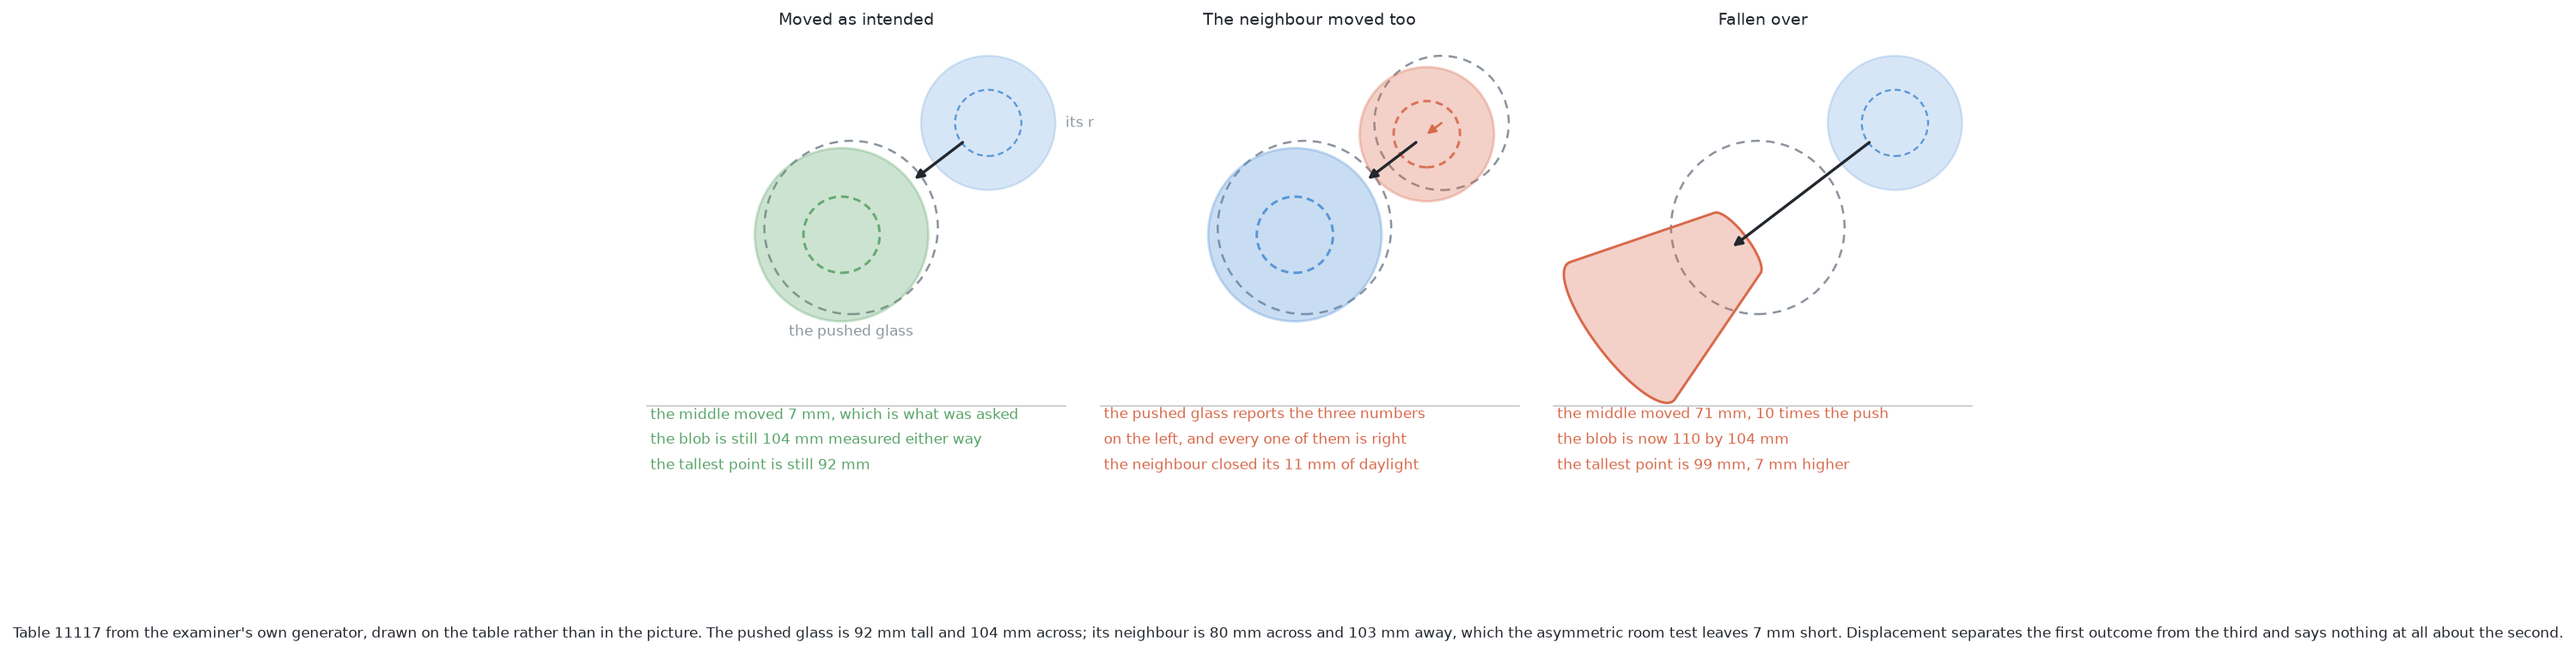
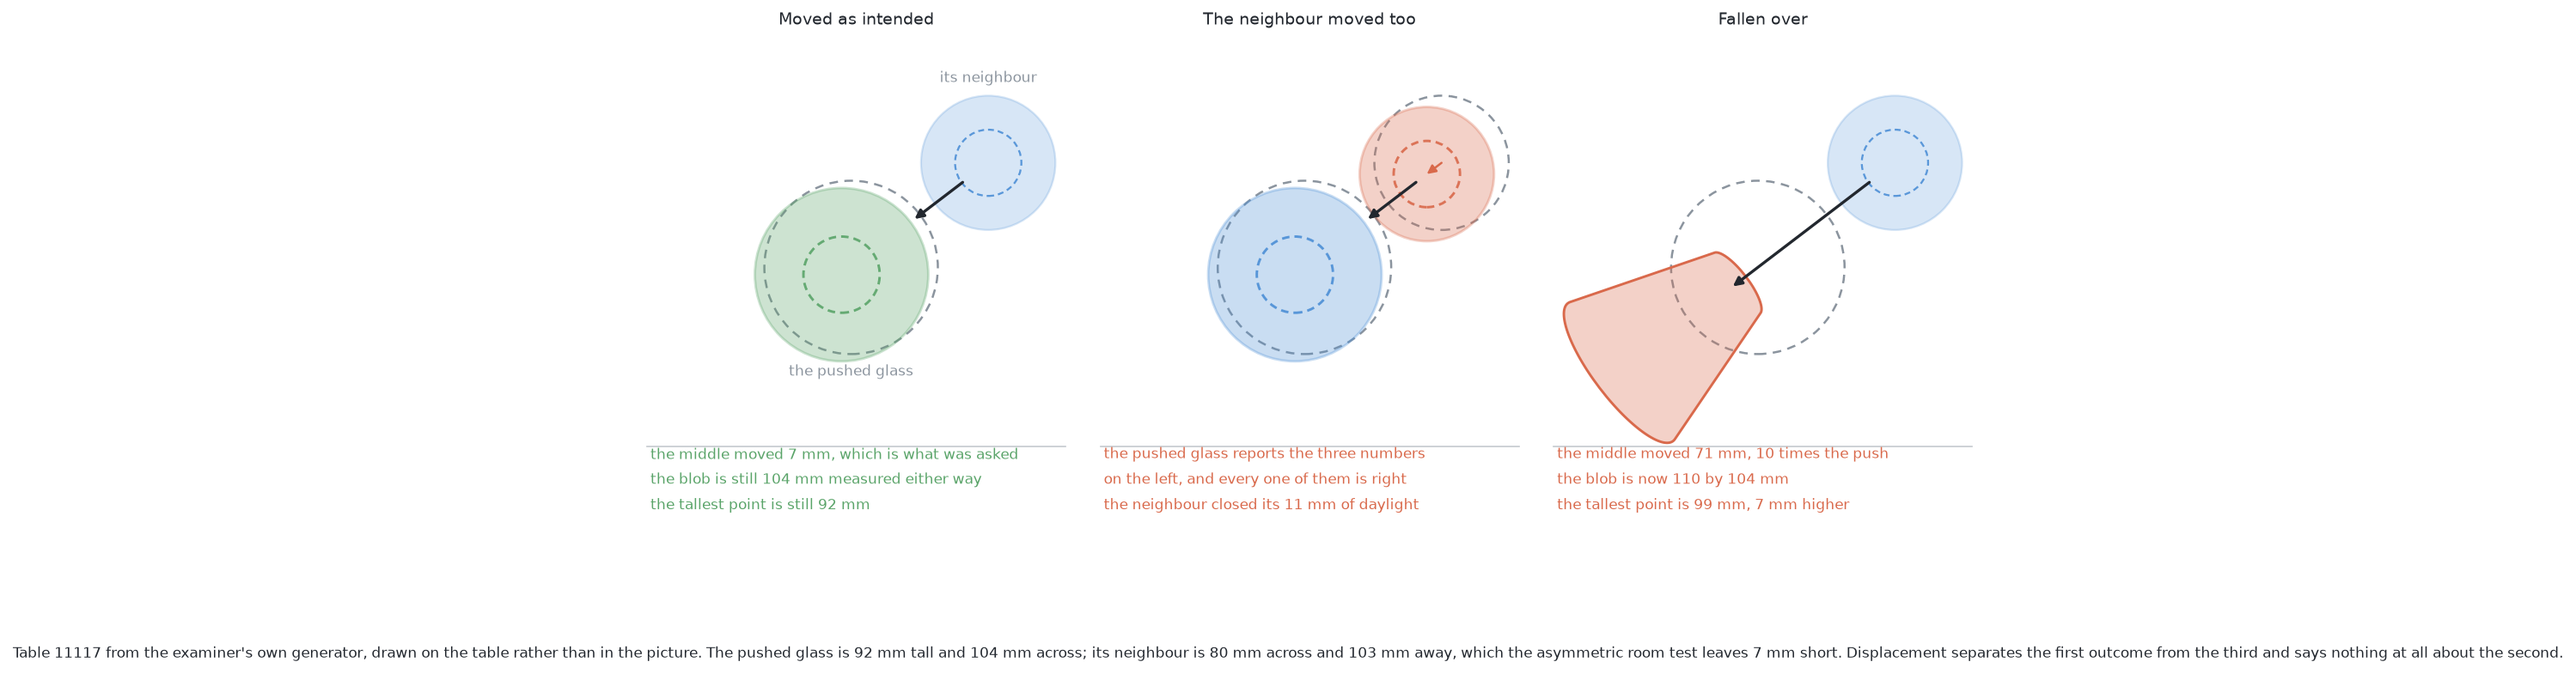
Stop the overhead-view picture cutting its own label in half
The label naming the neighbour was written to the right of it, past the
panel's right edge, so the panel showed "its r" and nothing more. It now
sits above the neighbour, and the panel reserves the room for it.

diff --git a/docs/diagrams/pushing-the-glasses-apart/make_07_images.py b/docs/diagrams/pushing-the-glasses-apart/make_07_images.py
@@ -397,7 +397,9 @@ def picture_what_the_overhead_view_reports() -> None:
         [here - (target["widest"] / 2.0 + 34.0) * away],
     ])
     left, right = drawn[:, 0].min() - 10.0, drawn[:, 0].max() + 10.0
-    high = drawn[:, 1].max() + 10.0
+    # Room above the drawing for the label that names the neighbour. Without it
+    # the label was written past the right edge and the panel cut it in half.
+    high = drawn[:, 1].max() + 34.0
     # A band under the drawing for the three lines of readout, in the same units.
     band = (right - left) * 0.19
     low = drawn[:, 1].min() - band
@@ -431,8 +433,8 @@ def picture_what_the_overhead_view_reports() -> None:
                tuple(here + (push - target["widest"] / 2.0 - 3.0) * away))
     note(intended, *(here - (target["widest"] / 2.0 + 6.0) * np.array([0.0, 1.0])),
          "the pushed glass", MUTED, va="top")
-    intended.text(there[0] + neighbour["widest"] / 2.0 + 6.0, there[1], "its neighbour",
-                  fontsize=NOTE_SIZE, color=MUTED, ha="left", va="center")
+    intended.text(there[0], there[1] + neighbour["widest"] / 2.0 + 6.0, "its neighbour",
+                  fontsize=NOTE_SIZE, color=MUTED, ha="center", va="bottom")
     readout(intended,
             f"the middle moved {push:.0f} mm, which is what was asked\n"
             f"the blob is still {target['widest']:.0f} mm measured either way\n"
